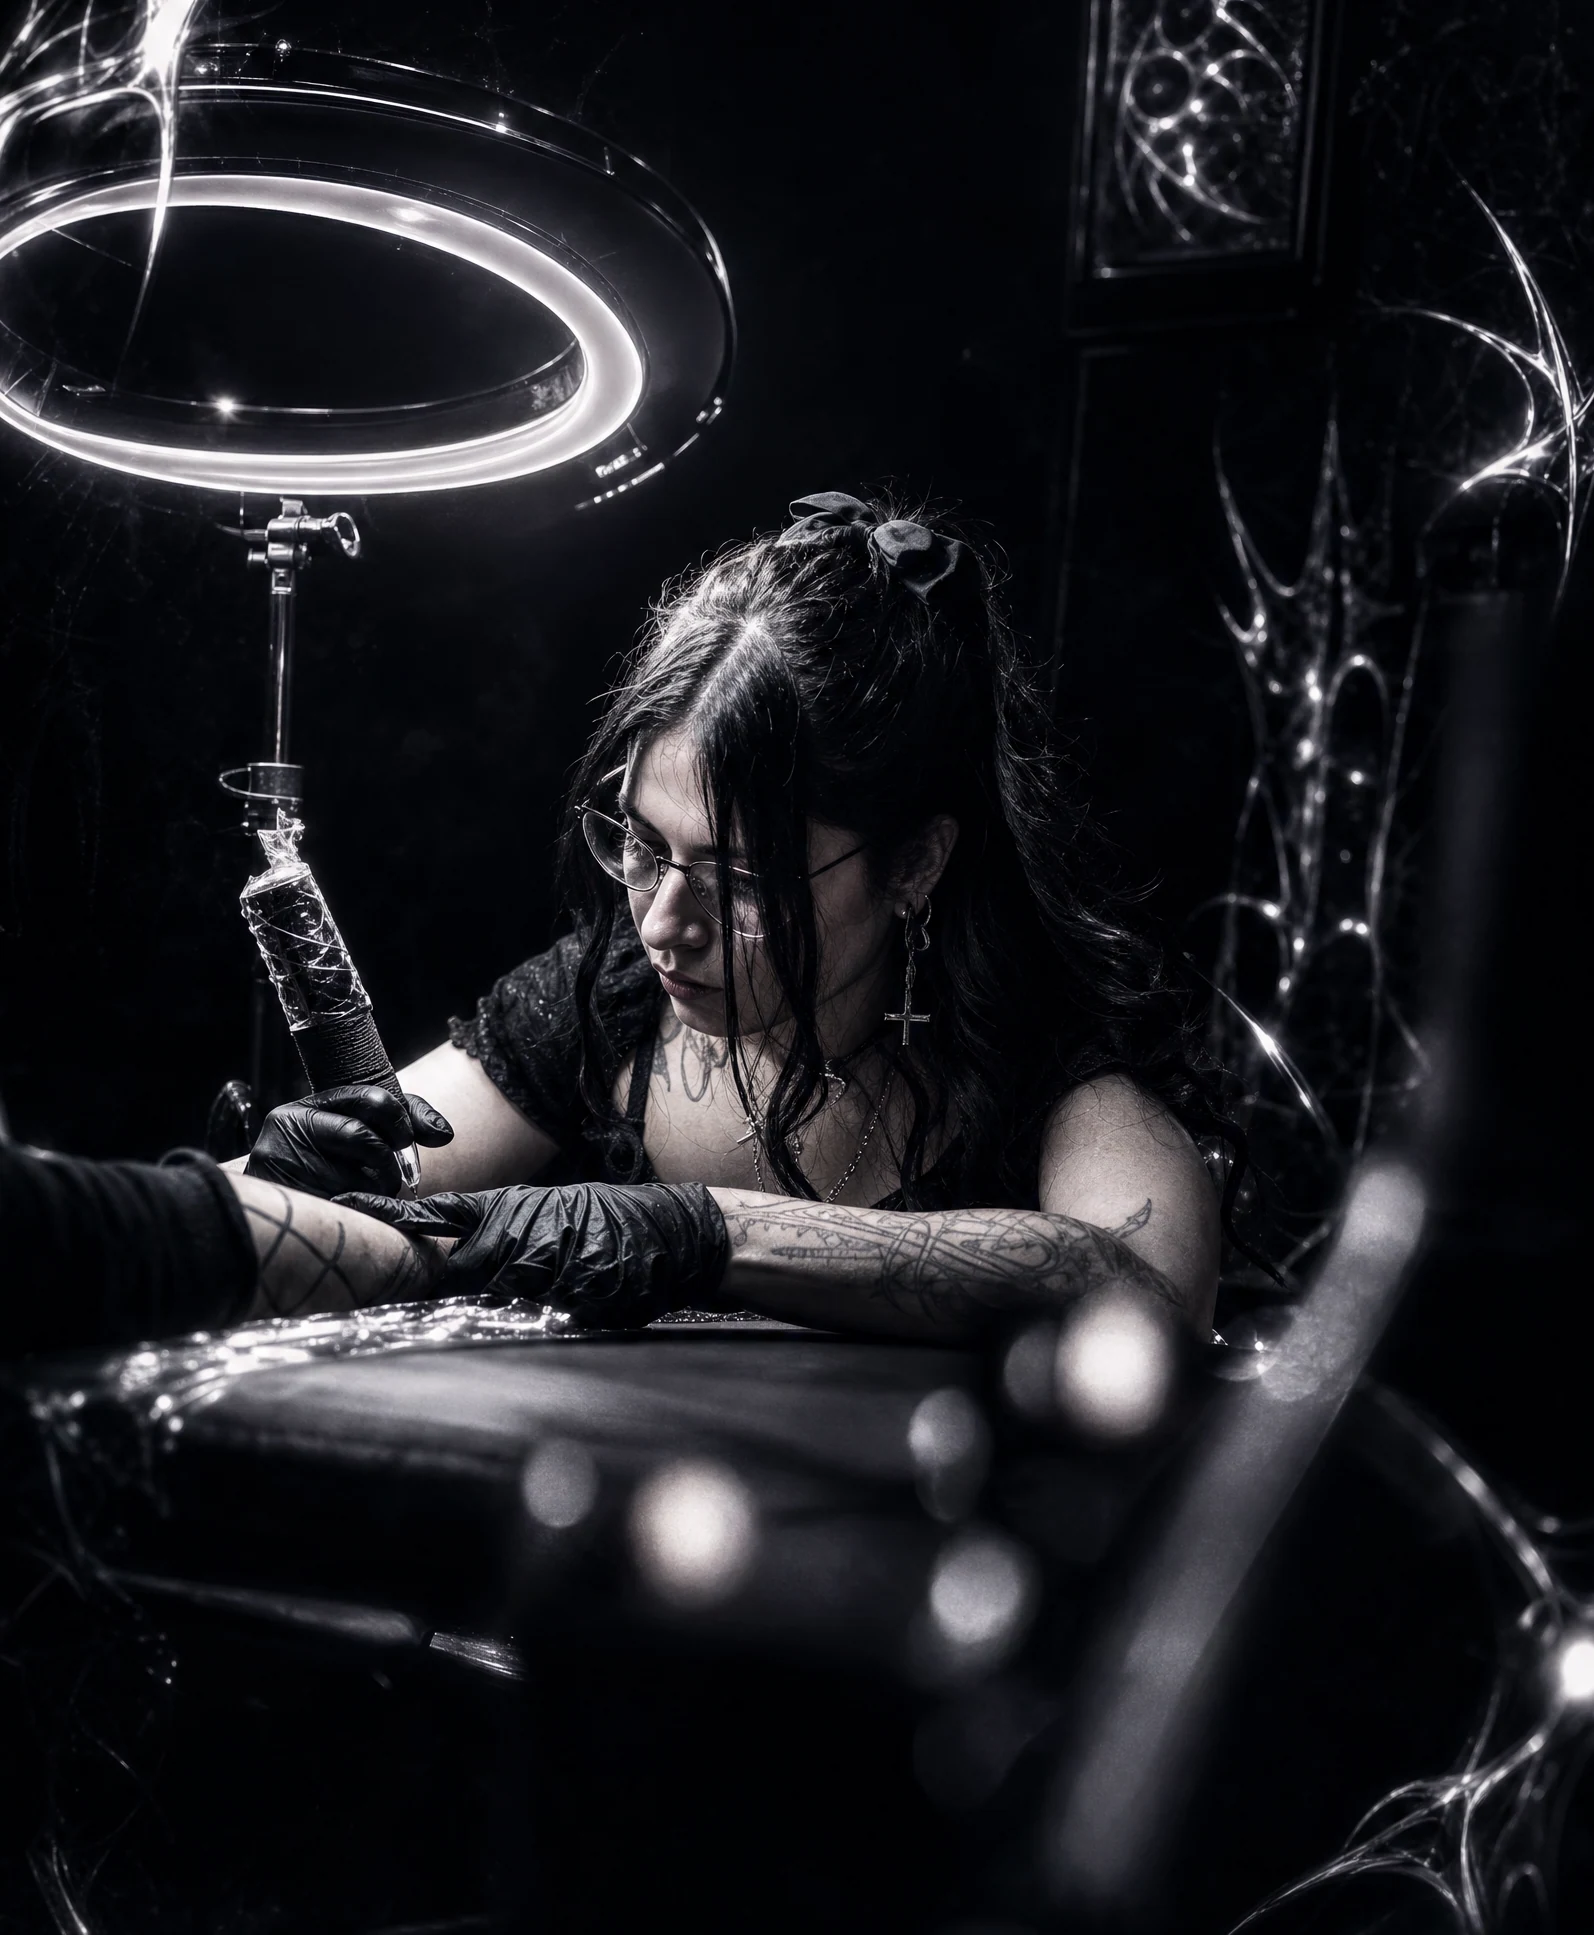
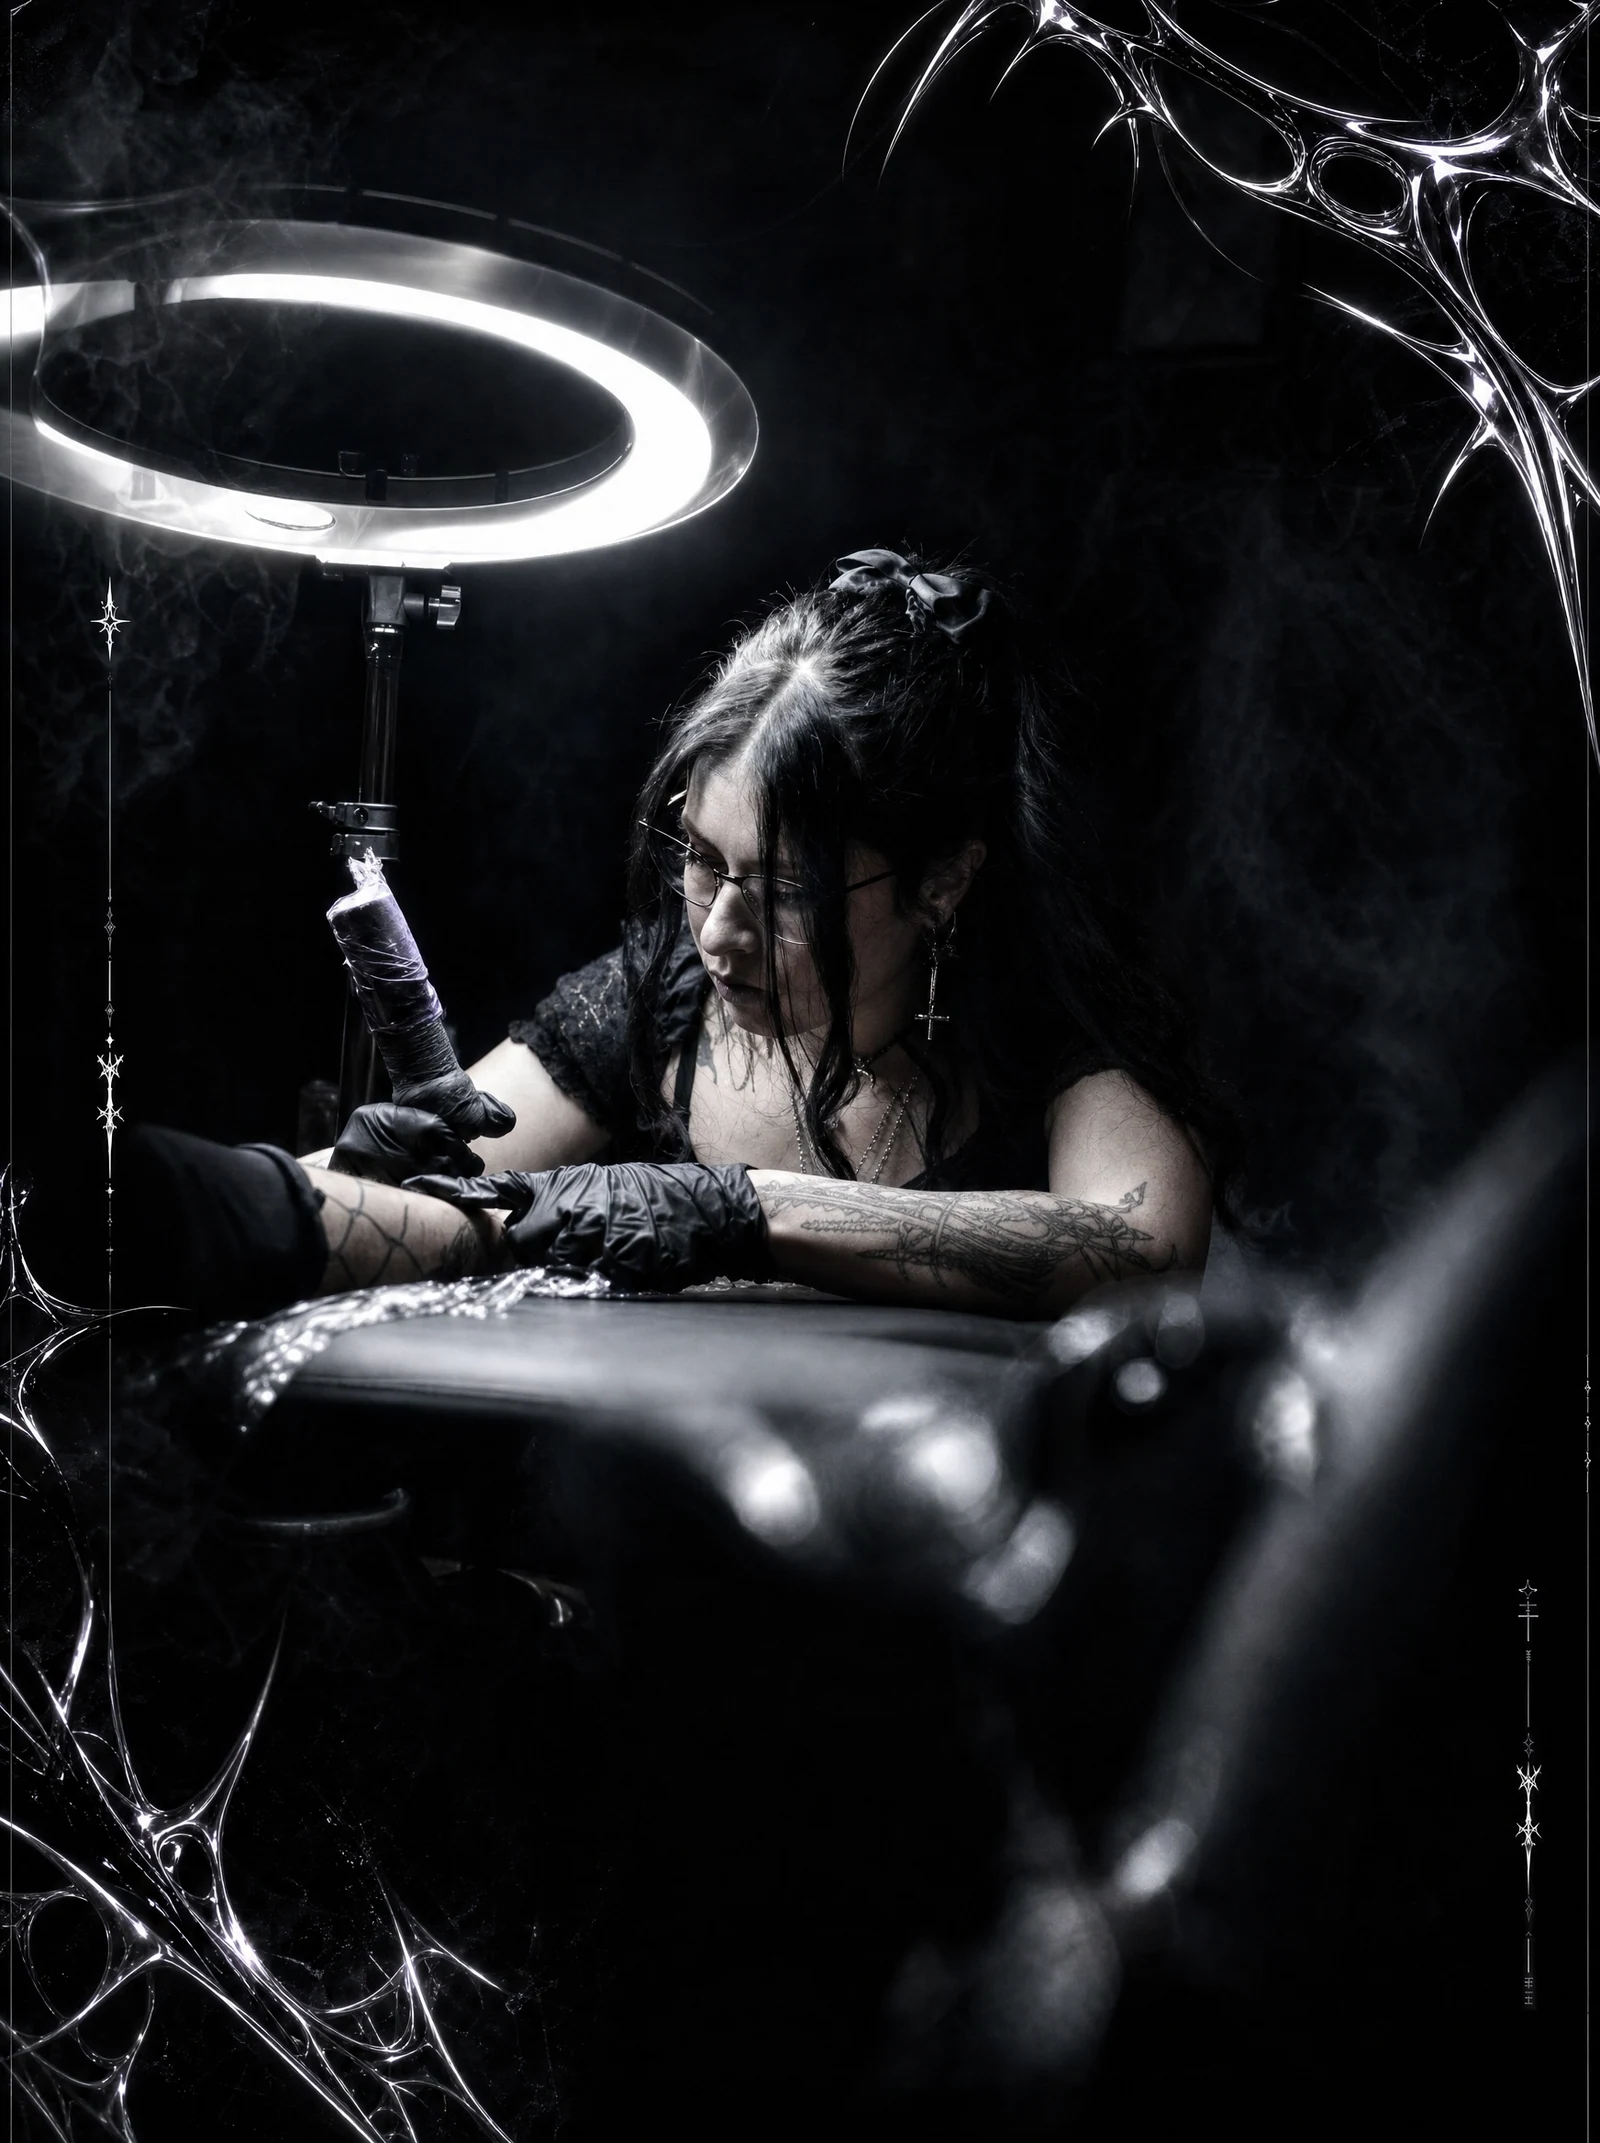
modifica immagine

diff --git a/ASSETS.md b/ASSETS.md
@@ -133,15 +133,18 @@ produzione.
 
 | File | Uso | Proporzioni | Stato |
 | --- | --- | --- | --- |
-| `public/images/valentina/portrait.webp` | ritratto About | 4:5 verticale | **presente** — 1594×1935, 218 KB |
+| `public/images/valentina/portrait.webp` | ritratto About | 4:5 verticale | **presente** — 1600×2143, 234 KB |
 | `public/images/valentina/portrait-mobile.webp` | crop mobile (facoltativo) | 4:5 | non fornito — ricade su `portrait.webp` |
 
 Il ritratto è generato da `scripts/build-portrait.mjs` a partire dalla foto
 originale, che resta fuori dal repository come ogni altro sorgente:
 
 ```
-node scripts/build-portrait.mjs [percorso/della/foto]
+node scripts/build-portrait.mjs "<percorso/della/foto>"
 ```
+
+Il percorso è obbligatorio: lo script non indovina il sorgente, per non poter
+mai rigenerare il ritratto dalla foto sbagliata quando ne esiste più di una.
 
 Lo script ridimensiona al massimo che il layout possa richiedere (1600 px, mai
 un ingrandimento), scrive WebP qualità 88 e non riporta i metadati EXIF —
